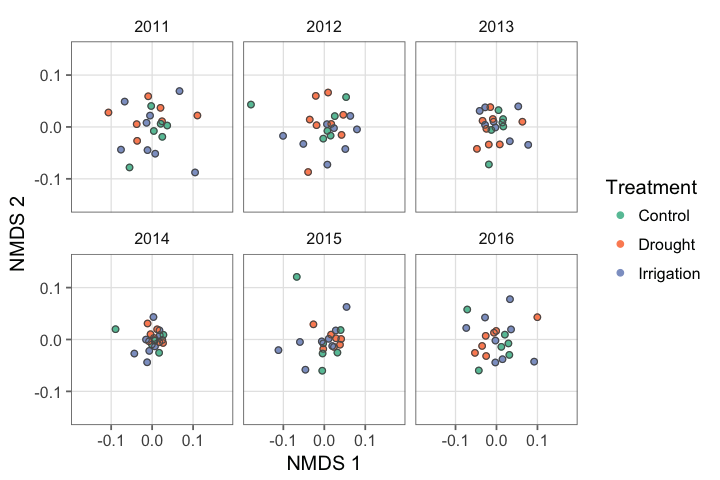
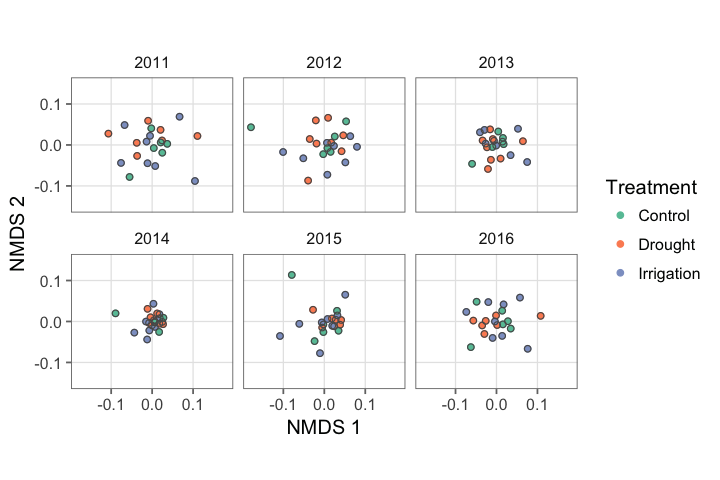
updates ord plot to have coord_fixed()

diff --git a/manuscript/usses_water_ms.tex b/manuscript/usses_water_ms.tex
@@ -658,17 +658,17 @@ Intercept & Control & 0.22 & 0.16 & -1.25 & 2.16 \\
   \hline
 Year & Test & n & d.f. & \emph{F} & \emph{P} \\ 
   \hline
-2011 & adonis &  21 &   2 & 1.02 & 0.42 \\ 
+2011 & adonis &  21 &   2 & 1.02 & 0.44 \\ 
   2011 & betadisper &  21 &   2 & 2.23 & 0.14 \\ 
-  2012 & adonis &  22 &   2 & 1.10 & 0.34 \\ 
+  2012 & adonis &  22 &   2 & 1.10 & 0.32 \\ 
   2012 & betadisper &  22 &   2 & 0.21 & 0.81 \\ 
   2013 & adonis &  22 &   2 & 1.23 & 0.14 \\ 
   2013 & betadisper &  22 &   2 & 0.28 & 0.76 \\ 
-  2014 & adonis &  22 &   2 & 0.95 & 0.54 \\ 
+  2014 & adonis &  22 &   2 & 0.95 & 0.58 \\ 
   2014 & betadisper &  22 &   2 & 0.35 & 0.71 \\ 
   2015 & adonis &  21 &   2 & 1.05 & 0.40 \\ 
   2015 & betadisper &  21 &   2 & 3.01 & 0.07 \\ 
-  2016 & adonis &  21 &   2 & 1.07 & 0.33 \\ 
+  2016 & adonis &  21 &   2 & 1.07 & 0.36 \\ 
   2016 & betadisper &  21 &   2 & 0.50 & 0.62 \\ 
    \hline
 \end{tabular}
